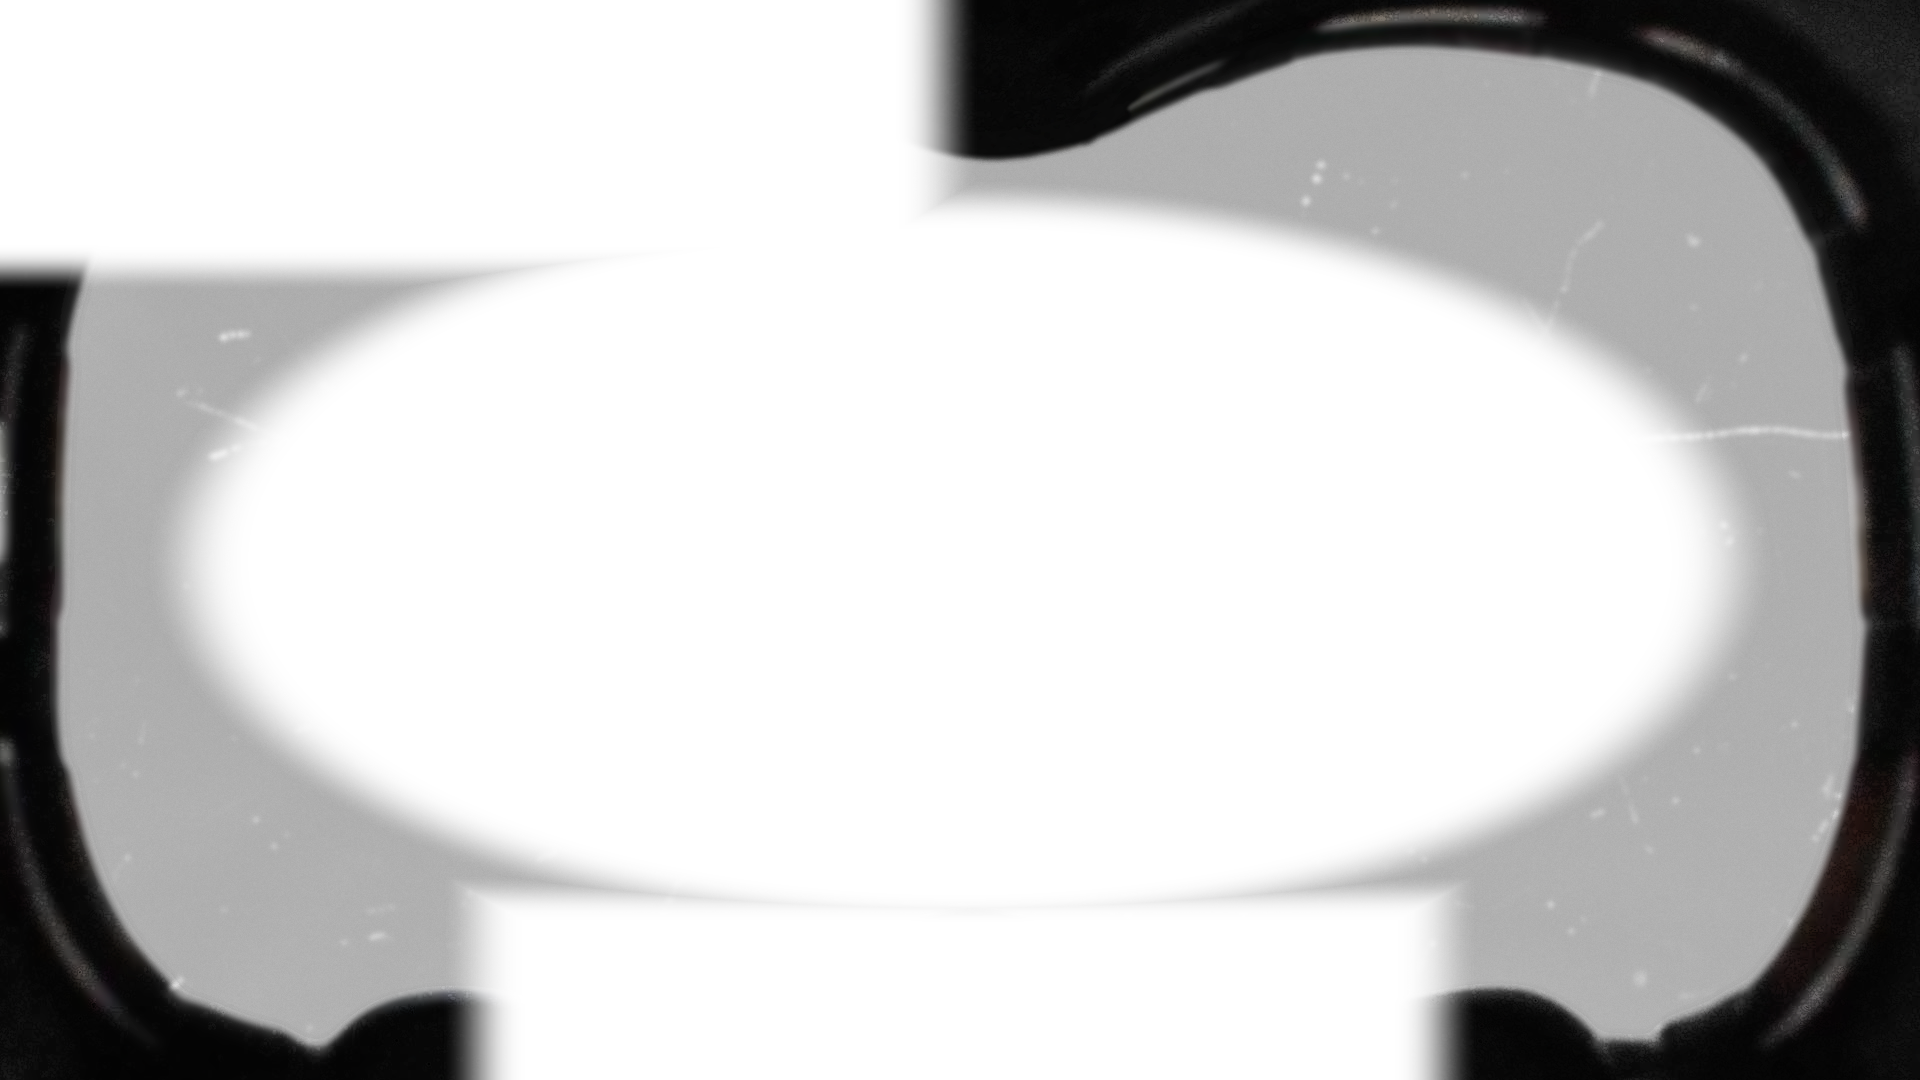
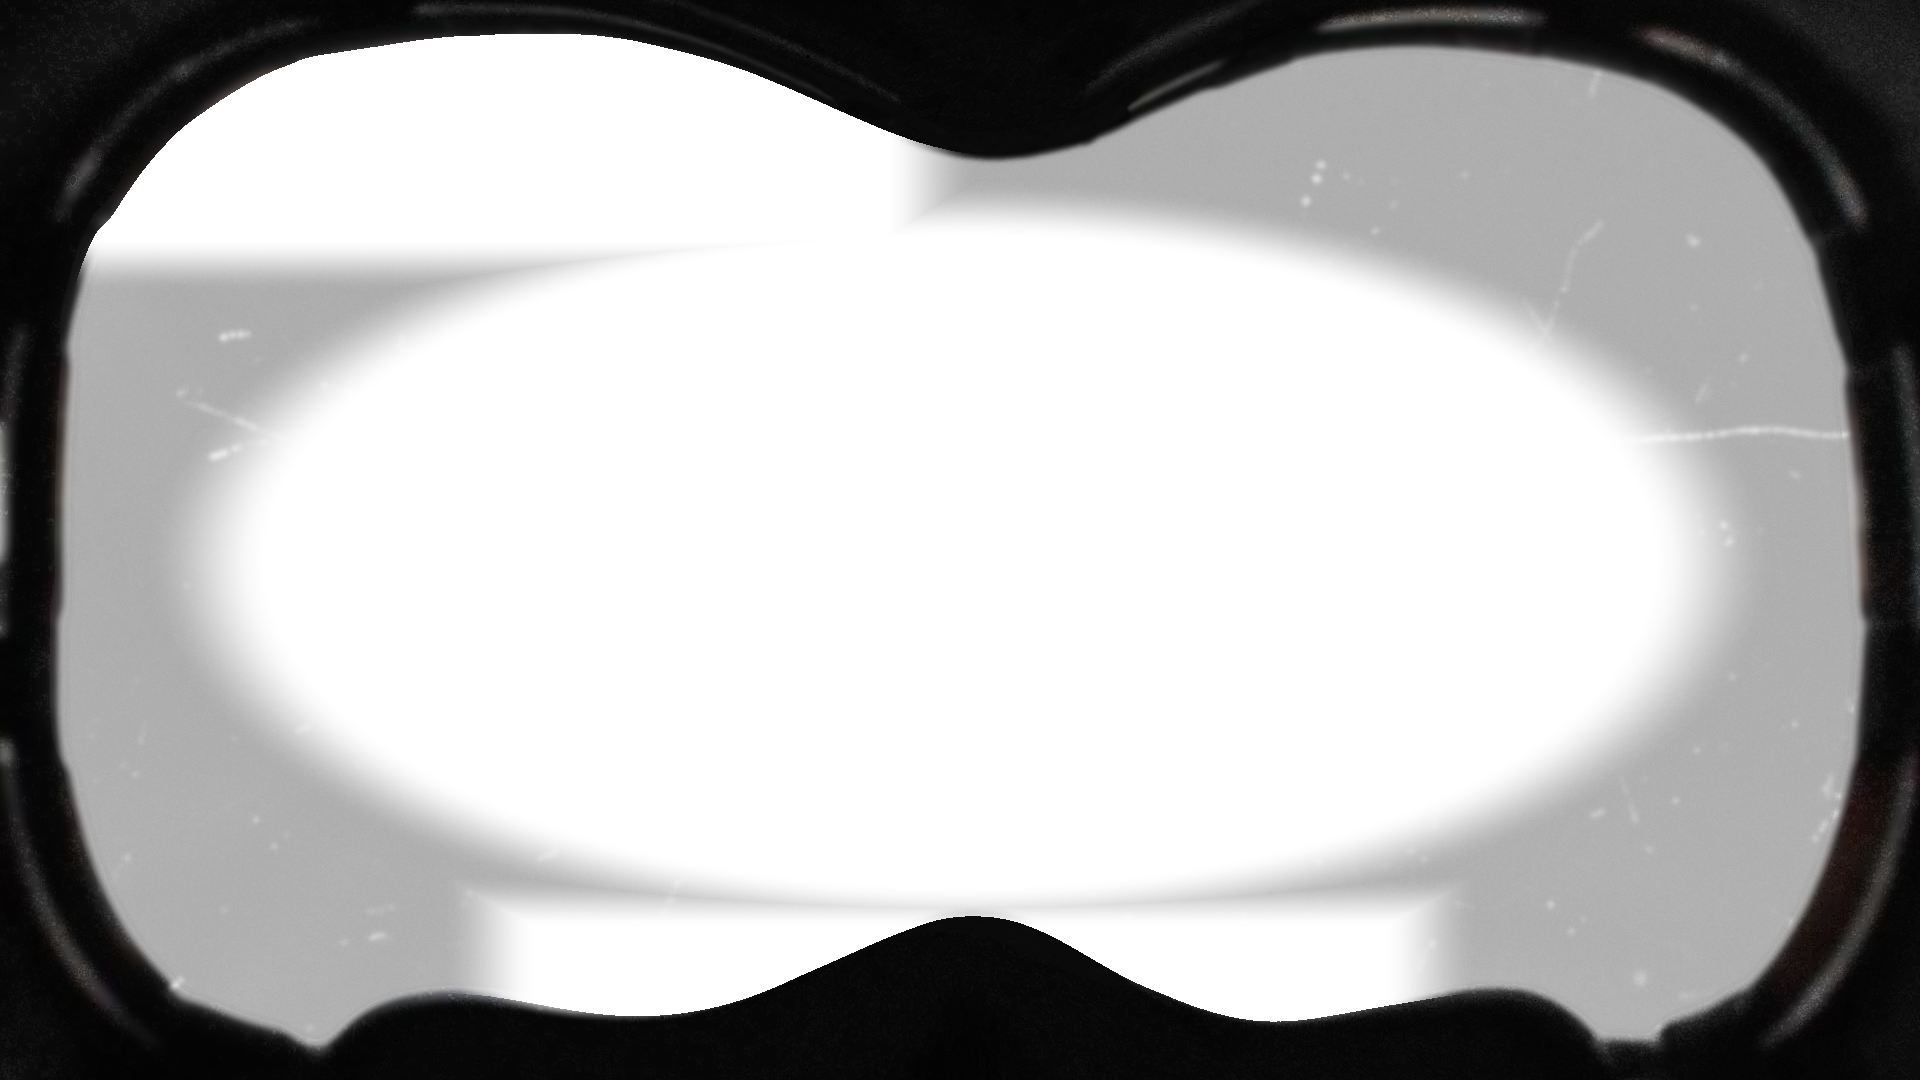
fix(rad): harden mask hotkeys, align choke grace, rebuild visor art from pristine source
Hotkey edge trackers follow the real key state while gated, Shift+F8 needs the game window foreground, the menu stack read takes the UI lock, inline INI comments and left/right Shift are handled. The choke warning grace derives from the auto-don tick count. The unequip grace now also purges an expired entry when an equip event arrives. The visor bake reads art-src/visor/gasmask_overlay_pristine.png, is idempotent, and keeps the opaque frame.

Changed region(s): [[0.2188, 0.825, 0.7812, 1.0], [0.0, 0.0, 0.5, 0.275]]

diff --git a/tests/status_hud_tests.js b/tests/status_hud_tests.js
@@ -75,9 +75,11 @@ function readPngAlpha(file){
    if(filter===1){v+=a;}else if(filter===2){v+=b;}else if(filter===3){v+=Math.floor((a+b)/2);}else if(filter===4){const p=a+b-c,pa=Math.abs(p-a),pb=Math.abs(p-b),pc=Math.abs(p-c);v+=(pa<=pb&&pa<=pc)?a:(pb<=pc?b:c);}cur[x]=v&0xff;}}
  return (fx,fy)=>out[Math.min(h-1,Math.round(fy*(h-1)))*stride+Math.min(w-1,Math.round(fx*(w-1)))*4+3];
 }
-for(const [name,file] of [['overlay','gasmask_overlay.png'],['fog','visor_fog.png']]){const alpha=readPngAlpha(path.join(view,file));
- for(const [point,fx,fy] of [['top-left messages',0.10,0.10],['message edge',0.40,0.15],['bottom-centre XP',0.50,0.93],['centre readouts',0.50,0.50]])
+for(const [name,file,clearPoints] of [['overlay','gasmask_overlay.png',[['top-left messages',0.20,0.15],['message edge',0.40,0.15],['lower centre glass',0.50,0.80],['centre readouts',0.50,0.50]]],['fog','visor_fog.png',[['top-left messages',0.10,0.10],['message edge',0.40,0.15],['bottom-centre XP',0.50,0.93],['centre readouts',0.50,0.50]]]]){const alpha=readPngAlpha(path.join(view,file));
+ for(const [point,fx,fy] of clearPoints)
   assert.ok(alpha(fx,fy)<=8,`${name} must be clear over the ${point} (alpha ${alpha(fx,fy)})`);
+ if(name==='overlay')for(const [point,fx,fy] of [['top-left frame corner',0.02,0.02],['bottom-centre frame',0.50,0.99],['left frame',0.01,0.50],['right frame',0.99,0.50],['bottom-left frame',0.05,0.90]])
+  assert.ok(alpha(fx,fy)>=250,`${name} must keep the opaque visor frame at the ${point} (alpha ${alpha(fx,fy)})`);
  for(const [point,fx,fy] of [['bottom-left edge',0.05,0.90],['top-right edge',0.90,0.05],['right edge',0.85,0.10]])
   assert.ok(alpha(fx,fy)>=40,`${name} must keep the visor look over the ${point} (alpha ${alpha(fx,fy)})`);
 }

diff --git a/src/RadiationEngine.cpp b/src/RadiationEngine.cpp
@@ -15,8 +15,7 @@ using namespace RadInternal;
 
 namespace
 {
-    // Constraint: the auto-don needs 3 s of stable exposure at the 4 Hz update rate.
-    constexpr int kAutoMaskStableTicks = 12;
+    using RadCorrectnessPolicy::kAutoMaskStableTicks;
 
     // Constraint: GetAsyncKeyState hotkeys must only fire while our own game window is foreground.
     bool GameWindowForeground()
@@ -35,6 +34,7 @@ namespace
         auto* ui = RE::UI::GetSingleton();
         if (!ui)
             return false;
+        RE::BSAutoReadLock lock{ RE::UI::GetMenuMapRWLock() };
         for (const auto& menu : ui->menuStack)
         {
             if (!menu || !menu->OnStack())
@@ -482,9 +482,7 @@ void RadiationEngine::Update()
                 player->ModActorValue(RE::ACTOR_VALUE_MODIFIER::kDamage, *actorValue->health,
                                       -rate * 0.25f);
 
-                // Grace: hold the notify/VO for the first ~2s so the rad-weather auto-equip can
-                // mask the player without a spurious gasp on every storm entry.
-                if (_chokeTicks >= 8)
+                if (_chokeTicks >= RadCorrectnessPolicy::kChokeGraceTicks)
                 {
                     if (!_chokeNotified)
                     {
@@ -618,7 +616,7 @@ void RadiationEngine::PollInput()
     // DEBUG menu: Left Shift + F8, edge-detected from the reliable key-DOWN bit (0x8000).
     const bool dbgKeyDown = (GetAsyncKeyState(kDebugMenuKey) & 0x8000) != 0;
     const bool lshift     = (GetAsyncKeyState(VK_LSHIFT)     & 0x8000) != 0;
-    if (dbgKeyDown && !_f8WasDown && lshift)
+    if (dbgKeyDown && !_f8WasDown && lshift && GameWindowForeground())
     {
         // Constraint: the debug menu is the reload point for the two mask keybinds, so an INI edit needs no restart.
         ReloadHotkeysFromIni();
@@ -631,13 +629,20 @@ void RadiationEngine::PollInput()
     RadHud::GetSingleton().PumpDeferredDebug();
 
     // Constraint: our GetAsyncKeyState keys only fire while the game window is foreground with no menu open.
+    if (_filterReplaceKey == 0 && _conditionRepairKey == 0)
+    {
+        _filterReplaceWasDown = false;
+        _conditionRepairWasDown = false;
+        return;
+    }
     const bool hotkeysAllowed = GameWindowForeground() && !BlockingMenuOpen();
 
+    // Constraint: while gated the edge trackers follow the real key state, so a key held across un-gating is not a press.
     // Gas-mask filter replace keybind (INI [Filter] ReplaceKey; 0 = disabled).
-    if (hotkeysAllowed && _filterReplaceKey != 0)
+    if (_filterReplaceKey != 0)
     {
         const bool rdown = (GetAsyncKeyState(_filterReplaceKey) & 0x8000) != 0;
-        if (rdown && !_filterReplaceWasDown)
+        if (hotkeysAllowed && rdown && !_filterReplaceWasDown)
             ReplaceFilter(false);
         _filterReplaceWasDown = rdown;
     }
@@ -647,10 +652,10 @@ void RadiationEngine::PollInput()
     }
 
     // Gas-mask repair keybind (INI [Condition] RepairKey; 0 = disabled).
-    if (hotkeysAllowed && _conditionRepairKey != 0)
+    if (_conditionRepairKey != 0)
     {
         const bool rdown = (GetAsyncKeyState(_conditionRepairKey) & 0x8000) != 0;
-        if (rdown && !_conditionRepairWasDown)
+        if (hotkeysAllowed && rdown && !_conditionRepairWasDown)
             RepairMask(false);
         _conditionRepairWasDown = rdown;
     }

diff --git a/tools/bake_visor_clear_zones.py b/tools/bake_visor_clear_zones.py
@@ -1,23 +1,17 @@
-"""Bake the HUD-safe clear zones into the Prisma visor art.
-
-The visor overlay and its condensation fog are fullscreen images, so a mask-image would be needed to keep
-the Scaleform HUD readable. Ultralight support for mask-image is unproven, so the clear zones are baked
-into the PNG alpha instead: the top-left notification area, the centre (loot/prompt readouts) and the
-bottom-centre XP bar stay transparent, while the visor edges and corners keep their original strength.
-
-Usage: python tools/bake_visor_clear_zones.py
-Regenerates gasmask_overlay.png (in place, alpha only) and visor_fog.png (new file) next to this script's
-view directory. Keep the geometry in sync with docs/code-notes/Rad-Overhaul-Fallout-4.md and the
-alpha-point assertions in tests/status_hud_tests.js.
-"""
+"""Bake HUD clear zones into the Prisma visor art from the pristine source in art-src/visor."""
 
 from pathlib import Path
 
 from PIL import Image
 
-VIEW = Path(__file__).resolve().parents[1] / "deploy/PrismaUI_F4/views/Interface/FalloutAnomaly"
+ROOT = Path(__file__).resolve().parents[1]
+VIEW = ROOT / "deploy/PrismaUI_F4/views/Interface/FalloutAnomaly"
+PRISTINE = ROOT / "art-src/visor/gasmask_overlay_pristine.png"
 OVERLAY = VIEW / "gasmask_overlay.png"
 FOG = VIEW / "visor_fog.png"
+
+# Constraint: keep in sync with the alpha-point assertions in tests/status_hud_tests.js.
+FRAME_ALPHA = 250
 
 # Constraint: these screen-normalised zones must stay clear - top-left messages, bottom-centre XP, centre loot/prompt.
 CLEAR_RECTS = (
@@ -36,7 +30,6 @@ def smoothstep(edge0, edge1, value):
 
 
 def clear_factor(x, y):
-    """0 inside a HUD clear zone, 1 outside; smooth over a small band."""
     factors = []
     band = 0.05
     for x0, x1, y0, y1 in CLEAR_RECTS:
@@ -49,18 +42,20 @@ def clear_factor(x, y):
 
 
 def bake_overlay():
-    image = Image.open(OVERLAY).convert("RGBA")
+    image = Image.open(PRISTINE).convert("RGBA")
     width, height = image.size
     pixels = image.load()
     for py in range(height):
         y = (py + 0.5) / height
         for px in range(width):
-            x = (px + 0.5) / width
             r, g, b, a = pixels[px, py]
-            if a:
-                pixels[px, py] = (r, g, b, int(round(a * clear_factor(x, y))))
-    image.save(OVERLAY)
-    print(f"baked clear zones into {OVERLAY.name} ({width}x{height})")
+            if a >= FRAME_ALPHA:
+                continue
+            x = (px + 0.5) / width
+            a = int(round(a * clear_factor(x, y)))
+            pixels[px, py] = (r, g, b, a) if a else (0, 0, 0, 0)
+    image.save(OVERLAY, optimize=True)
+    print(f"baked clear zones into {OVERLAY.name} ({width}x{height}) from {PRISTINE.name}")
 
 
 def bake_fog():

diff --git a/src/RadCorrectnessPolicy.h b/src/RadCorrectnessPolicy.h
@@ -100,6 +100,12 @@ namespace RadCorrectnessPolicy
         return a_inRadWeather && !a_interior && !a_sheltered && !a_poweredShelter && !a_powerArmor;
     }
 
+    // Constraint: the auto-don needs 3 s of stable exposure at the 4 Hz update rate.
+    inline constexpr int kAutoMaskStableTicks = 12;
+
+    // Constraint: the choke warning waits one tick past the auto-don so a masked player never hears a spurious gasp.
+    inline constexpr int kChokeGraceTicks = kAutoMaskStableTicks + 1;
+
     // Constraint: the auto-don needs a stable exposure reading, so a doorway or roof edge cannot flap the mask.
     struct AutoMaskStep
     {
@@ -134,9 +140,10 @@ namespace RadCorrectnessPolicy
         return { candidate == 1, candidate == 0, candidate, candidate, 0 };
     }
 
-    // Constraint: an INI hotkey accepts decimal or 0x-hex; 0 disables it, negatives and junk are rejected.
+    // Constraint: an INI hotkey accepts decimal or 0x-hex with an optional trailing "; comment"; 0 disables it, negatives and junk are rejected.
     inline bool ParseHotkey(std::string_view a_text, int& a_out)
     {
+        a_text = a_text.substr(0, a_text.find(';'));
         std::uint32_t value = 0;
         if (!RadIniParse::ParseNumber(a_text, 0xFFF, value))
             return false;
@@ -153,7 +160,7 @@ namespace RadCorrectnessPolicy
             return false;
         if (a_key <= 6)
             return false;
-        return a_key != 0x10 && a_key != 0x1B && a_key != 0x77;
+        return a_key != 0x10 && a_key != 0x1B && a_key != 0x77 && a_key != 0xA0 && a_key != 0xA1;
     }
 
     struct HotkeyPair

diff --git a/src/RadiationEngine.h b/src/RadiationEngine.h
@@ -409,7 +409,7 @@ private:
     bool  _chokeSounds       = true;    // [Choking] Sounds
     int   _chokeSoundTick    = 0;       // countdown to the next choking one-shot
     bool  _chokeNotified     = false;   // one notify per exposure episode
-    int   _chokeTicks        = 0;       // consecutive choking ticks (grace: no VO/notify for ~2s
+    int   _chokeTicks        = 0;       // consecutive choking ticks (grace: no VO/notify for kChokeGraceTicks
                                         // so the rad-weather auto-equip can mask up without a gasp)
     int   _chokeCalmTicks    = 0;       // consecutive safe ticks (hysteresis: cover-edge flicker
                                         // must stay safe ~10s before the notify/VO re-arm)

diff --git a/src/RadMaskOwnership.cpp b/src/RadMaskOwnership.cpp
@@ -57,6 +57,7 @@ namespace
             const auto actorID = event.actorAffected->GetFormID();
             const auto maskID = event.itemAffected->object->GetFormID();
             std::scoped_lock lock(g_mutex);
+            PurgeIfForfeitedLocked(actorID);
             const auto it = g_ownedMasks.find(actorID);
             if (it == g_ownedMasks.end() || it->second.maskFormID != maskID || it->second.IsTemporary())
                 return RE::BSEventNotifyControl::kContinue;
